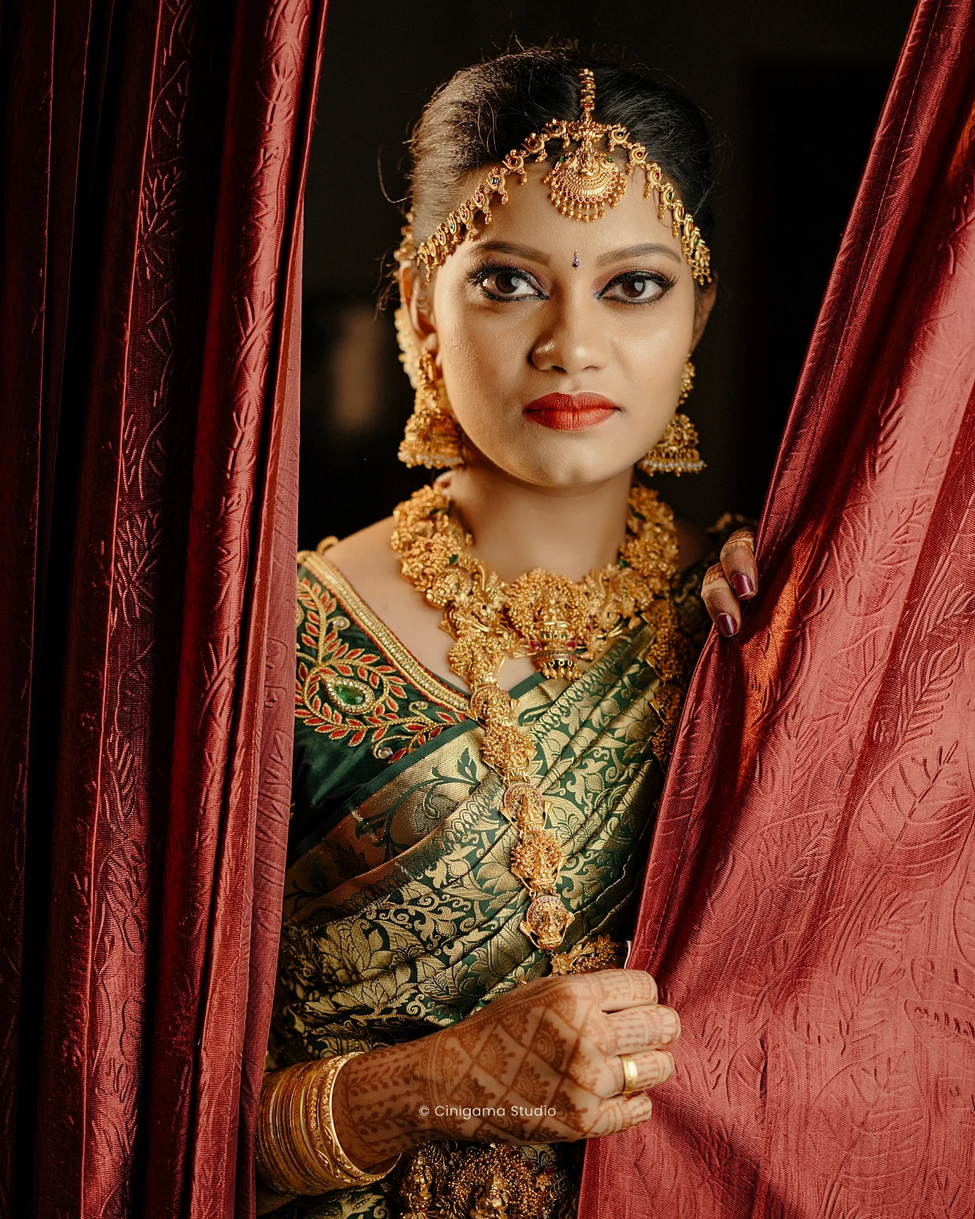
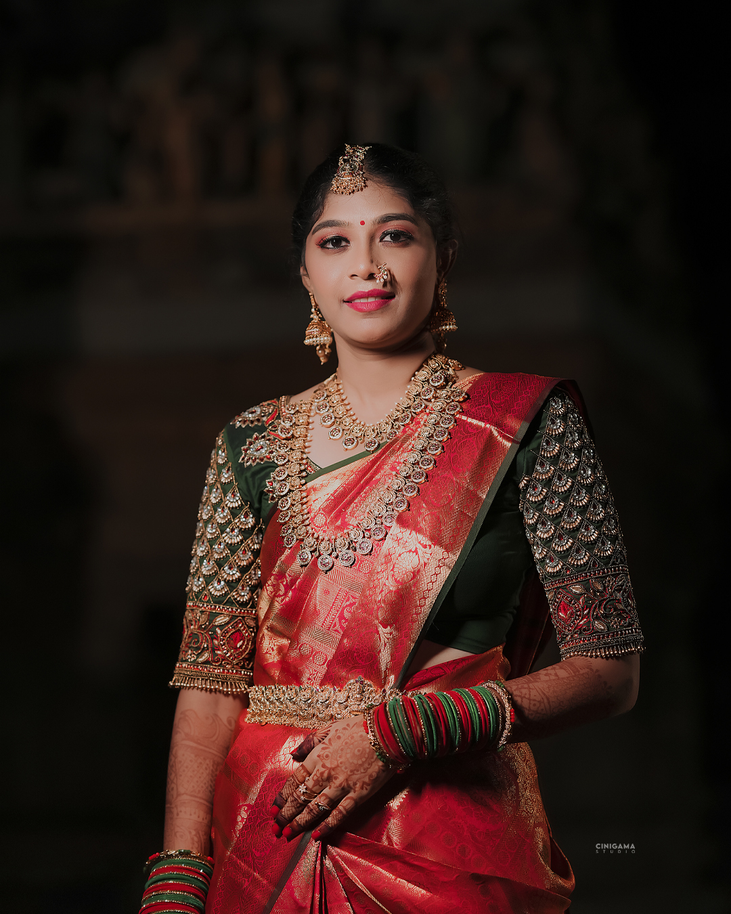
Update website images

diff --git a/components/InstagramFeed.tsx b/components/InstagramFeed.tsx
@@ -7,32 +7,32 @@ import { SOCIAL_LINKS } from "@/data/navigation";
 
 const INSTA_POSTS = [
   {
-    url: "https://images.unsplash.com/photo-1583939003579-730e3918a45a?q=80&w=800&auto=format&fit=crop",
+    url: "/images/instafeeds/image-1.jpg",
     alt: "Royal bride in handcrafted lehenga",
     caption: "Golden hour pheras in Udaipur #CinigamaWeddings"
   },
   {
-    url: "https://images.unsplash.com/photo-1610030469983-98e550d6193c?q=80&w=800&auto=format&fit=crop",
+    url: "/images/instafeeds/image-2.jpg",
     alt: "Bridal portrait with intricate jewellery",
     caption: "The quiet moments before the walk down the aisle."
   },
   {
-    url: "https://images.unsplash.com/photo-1534447677768-be436bb09401?q=80&w=800&auto=format&fit=crop",
+    url: "/images/instafeeds/image-3.jpg",
     alt: "Traditional Kanchipuram silk saree detail",
     caption: "Heritage silks & temple morning light in Chettinad."
   },
   {
-    url: "https://images.unsplash.com/photo-1515934751635-c81c6bc9a2d8?q=80&w=800&auto=format&fit=crop",
+    url: "/images/instafeeds/image-4.jpg",
     alt: "Couple walking on the beach at sunset",
     caption: "Barefoot cliffside vows above the Arabian sea."
   },
   {
-    url: "https://images.unsplash.com/photo-1511285560929-80b456fea0bc?q=80&w=800&auto=format&fit=crop",
+    url: "/images/instafeeds/image-5.jpg",
     alt: "Haldi ceremony with yellow flowers",
     caption: "Euphoric marigold petals during the haldi!"
   },
   {
-    url: "https://images.unsplash.com/photo-1544078751-58fee2d8a03b?q=80&w=800&auto=format&fit=crop",
+    url: "/images/instafeeds/image-6.jpg",
     alt: "Twilight mandap illuminated with diyas",
     caption: "Lake Pichola mandap setup under a million stars."
   },

diff --git a/data/services.ts b/data/services.ts
@@ -14,7 +14,7 @@ export const SERVICES: Service[] = [
     title: "Editorial Wedding Photography",
     tagline: "Honest, candid moments framed with high-fashion sensibility.",
     description: "We document your wedding without interrupting the organic flow of emotion. From the quiet tears of your morning rituals to the uninhibited frenzy of your midnight reception, our team captures raw moments as timeless art.",
-    image: "https://images.unsplash.com/photo-1583939003579-730e3918a45a?q=80&w=1600&auto=format&fit=crop",
+    image: "/images/services/disciplines.jpg",
     deliverables: [
       "Curated Master Gallery of 800+ color-graded photographs",
       "Handcrafted fine-art leatherbound wedding album",

diff --git a/components/Hero.tsx b/components/Hero.tsx
@@ -28,7 +28,7 @@ const HERO_SLIDES: HeroSlide[] = [
   },
   {
     webImage: "/images/hero/hero-2-web.jpg",
-    mobileImage: "/images/hero/hero-2-mobile.webp",
+    mobileImage: "/images/hero/hero-2-mobile (1).webp",
     title: "Preserving sacred heirloom moments.",
     subtitle: "Documenting generations of traditions, tears, and unfiltered joy across India.",
     webPosition: "center-right",

diff --git a/components/EditorialGallery.tsx b/components/EditorialGallery.tsx
@@ -35,7 +35,7 @@ const EDITORIAL_PHOTOS = [
     id: "edit-4",
     title: "Minimalist Elegance",
     subtitle: "Standing Editorial Pose",
-    image: "/images/couture4.jpg",
+    image: "/images/couture5.jpg",
     aspectRatio: "portrait",
     tag: "Series IV",
   },
